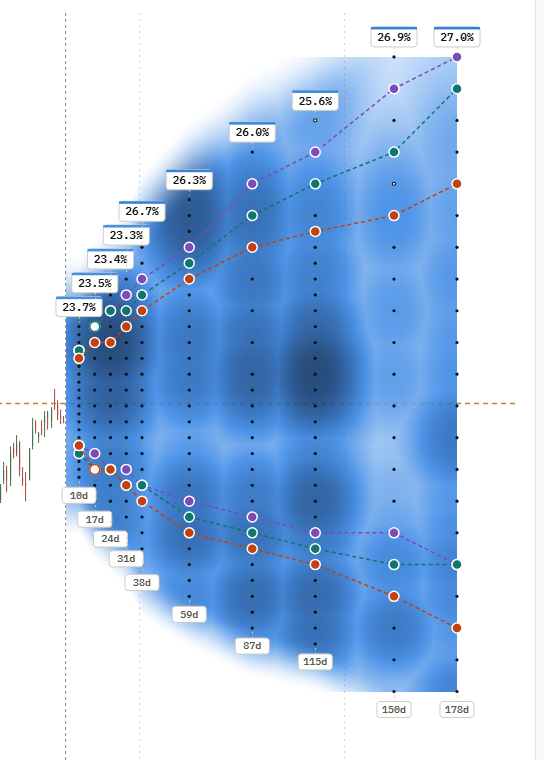
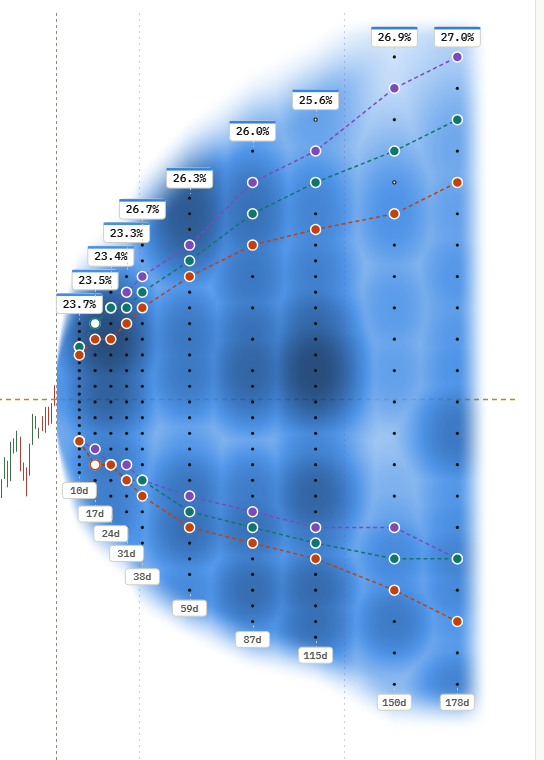
Update the website, manual, methods and design notes for the new color modes and contract selection

diff --git a/docs/methods.html b/docs/methods.html
@@ -12,7 +12,7 @@
 <meta property="og:title" content="How OptionsCone calculates touch and expiry probabilities">
 <meta property="og:description" content="American binomial IV, the first-passage formula, delta vs. N(d2) and a block bootstrap with intraday highs and lows.">
 <meta property="og:url" content="https://nikkn.github.io/OptionsCone/methods.html">
-<meta property="og:image" content="https://nikkn.github.io/OptionsCone/img/social.png?v=3">
+<meta property="og:image" content="https://nikkn.github.io/OptionsCone/img/social.png?v=4">
 <meta property="og:image:width" content="1200">
 <meta property="og:image:height" content="630">
 <meta property="og:image:alt" content="OptionsCone: a probability cone over the listed option strikes of a stock, with implied and historical contour lines.">
@@ -116,13 +116,18 @@
 
     <h2 id="cone">Drawing the cone</h2>
     <p>Probability coloring is interpolated between the listed strikes and expiries, in log price. Where an expiry does not list a strike, the probability is computed from the volatility of its nearest listed strike so the field stays continuous; no dot is drawn there. The color ramp is adjusted so that perceived lightness falls evenly with probability.</p>
-    <p>Implied volatility, open interest and spread are painted outward from each contract, each point taking the strongest nearby contract, and fade out beyond the outermost listed strikes. All four fields also fade out past the last expiry and beyond the outermost strike rows, so the cone ends softly; only transparency changes there, never the color. Probability uses a fixed 0 to 100% scale, implied volatility a linear scale over the values shown, and open interest, spread, time value per day and premium per unit risk a logarithmic scale, with spread inverted so that darker means tighter. Time value per day is the mid divided by the days to expiry, an average over the remaining life since decay speeds up towards expiry (every contract shown is out of the money, so its whole price is time value). The vs history map is the implied touch probability minus the 10-year bootstrap: blue where the market prices more risk than history (a rich premium for a seller), red where it prices less. Touch rather than expire, because it rests on volatility more than on the trend the history happened to have. Premium per unit risk is the mid divided by the average intrinsic value at the worst point of each 10-year path before expiry, all paths counted; it is left out where fewer than 50 of the 10,000 paths reach the strike.</p>
+    <p>Implied volatility, open interest, spread and time value per day are painted outward from each contract: each point takes the strongest contract within reach, so a large position stays visible as a block instead of being averaged away. The two seller maps, vs history and premium per unit risk, are differences and ratios and are blended instead: each point is the average of the contracts around it, weighted by inverse distance, so every contract shows its own value at its own position and a high value does not spill onto its neighbors.</p>
+    <p>All maps fade out beyond the outermost listed strikes, past the last expiry, and where they run into the top or bottom of the chart, so the cone ends softly; only transparency changes there, never the color. The strike range follows the expiry that reaches furthest on each side. Probability uses a fixed 0 to 100% scale, implied volatility a linear scale over the values shown, and open interest, spread, time value per day and premium per unit risk a logarithmic scale, with spread inverted so that darker means tighter. vs history is centered on zero.</p>
+    <p>Time value per day is the mid divided by the days to expiry. Every contract shown is out of the money, so its whole price is time value; per day it is an average over the remaining life, since decay speeds up towards expiry.</p>
+    <p>vs history is the implied touch probability minus the 10-year bootstrap: blue where the market prices more risk than history (a rich premium for a seller), red where it prices less. Touch rather than expire, because it rests on volatility more than on the trend the history happened to have. The bootstrap does not know the earnings calendar: about one in three of its 20-day blocks contains a past earnings reaction, whatever the dates. For an expiry that ends before the next report, history therefore overstates the risk and the map leans red; for one that spans the report, the market prices the event and the map leans blue.</p>
+    <p>Premium per unit risk is the mid divided by the average intrinsic value at the worst point of each 10-year path before expiry: for a short put the lowest low, for a short call the highest high, with paths that never reach the strike counted as zero. It is left out where fewer than 50 of the 10,000 paths reach the strike. It uses the mid; a seller receives the bid, which on far out-of-the-money contracts is noticeably lower.</p>
     <p>For each expiry and model, the contour marks the listed strike whose probability is closest to the target, separately above and below spot. A filled marker is within 5 percentage points of the target.</p>
 
     <h2 id="limits">Limits</h2>
     <ul>
       <li>The implied model assumes a lognormal price with constant volatility per contract. Real prices jump, especially around earnings.</li>
       <li>Implied probabilities are risk-neutral. They include the market's price for risk and are not real-world odds.</li>
+      <li>The bootstrap ignores the earnings calendar, so comparisons for expiries just before a report lean towards history overstating the risk.</li>
       <li>The bootstrap only knows the chosen years. A stock that changed its business, or a period without a crash, gives a narrow picture.</li>
       <li>Free data can be delayed, incomplete or wrong. The checks catch much of that, not all of it.</li>
     </ul>

diff --git a/docs/manual.html b/docs/manual.html
@@ -12,7 +12,7 @@
 <meta property="og:title" content="OptionsCone manual">
 <meta property="og:description" content="Installing OptionsCone, reading the probability cone and using every control.">
 <meta property="og:url" content="https://nikkn.github.io/OptionsCone/manual.html">
-<meta property="og:image" content="https://nikkn.github.io/OptionsCone/img/social.png?v=3">
+<meta property="og:image" content="https://nikkn.github.io/OptionsCone/img/social.png?v=4">
 <meta property="og:image:width" content="1200">
 <meta property="og:image:height" content="630">
 <meta property="og:image:alt" content="OptionsCone: a probability cone over the listed option strikes of a stock, with implied and historical contour lines.">
@@ -126,12 +126,14 @@
     <h2 id="mouse">Mouse and keyboard</h2>
     <div class="table-scroll"><table>
       <tr><th>Input</th><th>Action</th></tr>
+      <tr><td>Click a dot</td><td>Select that contract: it is marked and its tooltip stays open while you switch color modes</td></tr>
+      <tr><td>Click it again, click empty space, or <kbd>Esc</kbd></td><td>Clear the selection</td></tr>
       <tr><td>Drag left or right</td><td>Scroll through time</td></tr>
       <tr><td>Drag up or down</td><td>Slide the price range, to bring a part of the cone into view</td></tr>
       <tr><td><kbd>Ctrl</kbd> or <kbd>Shift</kbd> + wheel</td><td>Zoom in and out around the pointer</td></tr>
       <tr><td>Wheel over a probability box</td><td>Change that target probability</td></tr>
       <tr><td><kbd>&uarr;</kbd> <kbd>&darr;</kbd></td><td>Change the downside target (and the upside too while linked)</td></tr>
-      <tr><td><kbd>F</kbd></td><td>Enter or leave fullscreen (<kbd>Esc</kbd> also leaves)</td></tr>
+      <tr><td><kbd>F</kbd></td><td>Enter or leave fullscreen (<kbd>Esc</kbd> also leaves, after clearing a selection)</td></tr>
       <tr><td><kbd>T</kbd> <kbd>H</kbd> <kbd>V</kbd></td><td>Trend line, horizontal line, drawing off</td></tr>
       <tr><td><kbd>Ctrl</kbd>+<kbd>Z</kbd> or <kbd>Backspace</kbd></td><td>Remove the last drawing</td></tr>
     </table></div>
@@ -148,6 +150,8 @@
       <li><strong>premium/risk:</strong> the mid, the average worst intrinsic value on the 10-year paths, the share of paths that reach the strike, and the ratio</li>
     </ul>
     <p>A warning line appears if the quote was flagged by the checks.</p>
+    <h3 id="select">Comparing one contract across maps</h3>
+    <p>Click a dot to select the contract. It gets a ring with four ticks that stays visible on every color mode, and its tooltip stays open. Switch through the color modes and the tooltip changes with them, so you can read one contract's probability, volatility, open interest, spread, time value and seller figures in a few clicks. Hovering another dot shows that one for a moment; the selected tooltip comes back when you move away. The selection follows the contract through zooming and scrolling and is kept per ticker.</p>
     <p>Delta and gamma are computed on the same American binomial tree as the implied volatility, so they can be compared with your broker's. Small differences come from the broker's own dividend and rate assumptions.</p>
 
     <h2 id="table">Data table</h2>

diff --git a/docs/index.html b/docs/index.html
@@ -13,7 +13,7 @@
 <meta property="og:title" content="OptionsCone: what the option market expects from your stock">
 <meta property="og:description" content="The full option chain on the price chart: probabilities, IV, open interest and spreads. Free and open source.">
 <meta property="og:url" content="https://nikkn.github.io/OptionsCone/">
-<meta property="og:image" content="https://nikkn.github.io/OptionsCone/img/social.png?v=3">
+<meta property="og:image" content="https://nikkn.github.io/OptionsCone/img/social.png?v=4">
 <meta property="og:image:width" content="1200">
 <meta property="og:image:height" content="630">
 <meta property="og:image:alt" content="OptionsCone: a probability cone over the listed option strikes of a stock, with implied and historical contour lines.">
@@ -172,6 +172,22 @@
       <figure>
         <a href="img/chart-spr.png"><img class="shot" src="img/cone-spr.png" width="544" height="760" loading="lazy" alt="Cone colored by bid-ask spread, darker where quotes are tighter."></a>
         <figcaption><strong>Spread.</strong> Darker means tighter quotes, so the contracts you can actually trade stand out.</figcaption>
+      </figure>
+    </div>
+    <h3 style="margin-top:36px">For option sellers</h3>
+    <p class="prose">Three maps answer the seller&#39;s question: which strikes pay the most for the risk taken. Click a contract to select it, then switch maps and its numbers follow.</p>
+    <div class="grid3">
+      <figure>
+        <a href="img/chart-tv.png"><img class="shot" src="img/cone-tv.png" width="544" height="760" loading="lazy" alt="Cone colored by time value per remaining day, darkest near the money for short expiries."></a>
+        <figcaption><strong>Time value per day.</strong> The option price divided by the days left, an average over the remaining life. Every contract shown is out of the money, so its whole price is time value.</figcaption>
+      </figure>
+      <figure>
+        <a href="img/chart-gap.png"><img class="shot" src="img/cone-gap.png" width="544" height="760" loading="lazy" alt="Cone colored blue below spot and red above, comparing implied with historical touch probability."></a>
+        <figcaption><strong>vs history.</strong> The market&#39;s touch probability minus the stock&#39;s own last ten years. Blue where the market prices more risk than history produced, red where less.</figcaption>
+      </figure>
+      <figure>
+        <a href="img/chart-vpr.png"><img class="shot" src="img/cone-vpr.png" width="544" height="760" loading="lazy" alt="Cone colored by premium per unit of historical risk."></a>
+        <figcaption><strong>Premium per unit risk.</strong> The option price divided by the average intrinsic value at the worst point of each historical path. Higher means more premium for the risk history shows.</figcaption>
       </figure>
     </div>
   </section>

diff --git a/docs/use-cases.html b/docs/use-cases.html
@@ -12,7 +12,7 @@
 <meta property="og:title" content="What OptionsCone can tell you before and during a trade">
 <meta property="og:description" content="Stop loss odds, break-even, price targets and market vs. history, with real numbers.">
 <meta property="og:url" content="https://nikkn.github.io/OptionsCone/use-cases.html">
-<meta property="og:image" content="https://nikkn.github.io/OptionsCone/img/social.png?v=3">
+<meta property="og:image" content="https://nikkn.github.io/OptionsCone/img/social.png?v=4">
 <meta property="og:image:width" content="1200">
 <meta property="og:image:height" content="630">
 <meta property="og:image:alt" content="OptionsCone: a probability cone over the listed option strikes of a stock, with implied and historical contour lines.">

diff --git a/charts/build_chart.py b/charts/build_chart.py
@@ -350,7 +350,12 @@ BODY = """<div class="wrap">
   <p>Close-to-close volatility over the last year, exponentially weighted with a 6-week half-life and annualized with 252 trading days.</p>
 
   <h3>The cone</h3>
-  <p>Probability coloring is interpolated between the listed strikes and expiries, in log price. Where an expiry does not list a strike, the probability is computed from the volatility of its nearest listed strike, so the field stays continuous; no dot is drawn there. IV, open interest and spread are painted outward from each contract, each point taking the strongest nearby contract, and fade out beyond the outermost listed strikes. All four fields also fade out past the last expiry and beyond the outermost strike rows, so the cone ends softly; only transparency changes there, never the color. Probability uses a fixed 0 to 100% scale; IV a linear scale over the values shown; open interest, spread, time value per day and premium per unit risk a logarithmic scale, with spread inverted so that darker means tighter. Time value per day is the mid divided by the days to expiry, an average over the remaining life since decay speeds up towards expiry (every contract shown is out of the money, so its whole price is time value). The vs history map is the implied touch probability minus the 10-year bootstrap: blue where the market prices more risk than history (a rich premium for a seller), red where it prices less. Touch rather than expire, because it rests on volatility more than on the trend the history happened to have. Premium per unit risk is the mid divided by the average intrinsic value at the worst point of each 10-year path before expiry, all paths counted; it is left out where fewer than 50 of the 10,000 paths reach the strike.</p>
+  <p>Probability coloring is interpolated between the listed strikes and expiries, in log price. Where an expiry does not list a strike, the probability is computed from the volatility of its nearest listed strike, so the field stays continuous; no dot is drawn there.</p>
+  <p>Implied volatility, open interest, spread and time value per day are painted outward from each contract: each point takes the strongest contract within reach, so a large position stays visible as a block instead of being averaged away. The two seller maps, vs history and premium per unit risk, are differences and ratios and are blended instead: each point is the average of the contracts around it, weighted by inverse distance, so every contract shows its own value at its own position and a high value does not spill onto its neighbors.</p>
+  <p>All maps fade out beyond the outermost listed strikes, past the last expiry, and where they run into the top or bottom of the chart, so the cone ends softly; only transparency changes there, never the color. The strike range follows the expiry that reaches furthest on each side. Probability uses a fixed 0 to 100% scale, implied volatility a linear scale over the values shown, and open interest, spread, time value per day and premium per unit risk a logarithmic scale, with spread inverted so that darker means tighter. vs history is centered on zero.</p>
+  <p>Time value per day is the mid divided by the days to expiry. Every contract shown is out of the money, so its whole price is time value; per day it is an average over the remaining life, since decay speeds up towards expiry.</p>
+  <p>vs history is the implied touch probability minus the 10-year bootstrap: blue where the market prices more risk than history (a rich premium for a seller), red where it prices less. Touch rather than expire, because it rests on volatility more than on the trend the history happened to have. The bootstrap does not know the earnings calendar: about one in three of its 20-day blocks contains a past earnings reaction, whatever the dates. For an expiry that ends before the next report, history therefore overstates the risk and the map leans red; for one that spans the report, the market prices the event and the map leans blue.</p>
+  <p>Premium per unit risk is the mid divided by the average intrinsic value at the worst point of each 10-year path before expiry: for a short put the lowest low, for a short call the highest high, with paths that never reach the strike counted as zero. It is left out where fewer than 50 of the 10,000 paths reach the strike. It uses the mid; a seller receives the bid, which on far out-of-the-money contracts is noticeably lower.</p>
 
   <h3>Contours</h3>
   <p>For each expiry and model, the contour marks the listed strike whose probability is closest to the target, separately above and below spot. A filled marker is within 5 percentage points of the target, a hollow one is the nearest available but further off.</p>

diff --git a/DESIGN.md b/DESIGN.md
@@ -102,6 +102,38 @@ download rewrites only that ticker's file, and the page itself never needs
 rebuilding. Each file carries a format version; files written by an older
 version are re-exported from the archive at start-up, without a new download.
 
+## Maps for sellers
+
+Most retail charting answers "where might the price go". A seller of options
+asks something narrower: which strikes pay the most for the risk taken. Three
+color modes serve that question, all built from data the app already has.
+
+- **Time value per day.** Every contract shown is out of the money, so its
+  whole price is time value, and the mid divided by the days left needs no
+  model at all. It is an average over the remaining life; decay speeds up
+  towards expiry. In-the-money contracts are left out on purpose: their time
+  value is not the same as the out-of-the-money contract at the same strike
+  (interest on the strike and dividends come on top), and their quotes are
+  wider.
+- **vs history.** The implied touch probability minus the 10-year bootstrap.
+  Touch rather than expire, because the probability of finishing beyond a
+  strike is dominated by drift, and the trend a stock happened to have over
+  ten years is the least reliable thing history offers. The probability of
+  reaching a level rests mainly on volatility, which persists. The bootstrap
+  ignores the earnings calendar, so expiries just before a report compare
+  against a history that contains earnings moves the market is not pricing.
+- **Premium per unit risk.** The mid divided by the average intrinsic value at
+  the worst point of each historical path before expiry. Path extremes depend
+  on volatility far more than on trend, like the touch probability. The
+  extremes are already sorted for the touch counts, so a running sum gives
+  every strike in one binary search.
+
+Open interest is colored by letting the strongest nearby contract win, so a
+large position stays a wall instead of being averaged away. The two seller
+maps are ratios and differences, where that rule would let a high value spill
+over its neighbors; they are blended by inverse distance instead, so each
+contract shows its own value at its own position.
+
 ## Rendering
 
 Ten years of daily candles at a close zoom are over a hundred thousand pixels
@@ -118,3 +150,10 @@ arrive.
 The color ramp is re-parameterized so that perceived lightness falls linearly
 with probability. Open interest and spread span orders of magnitude and use a
 logarithmic scale; implied volatility stays linear.
+
+The strike range is the same for every expiry so rows line up, and each side
+reaches as far as the widest expiry on that side. A sparse expiry, typically a
+quarterly with few strikes, would otherwise cut the whole chart short. Where
+the data ends, the maps keep their edge values and fade to transparent, past
+the last expiry and at the top and bottom of the range, so the cone never
+stops on a line. Only transparency changes in those margins.

diff --git a/README.md b/README.md
@@ -22,7 +22,8 @@ Where the market and the stock's history disagree, the lines separate.
 
 The cone can also be colored by implied volatility, open interest, bid-ask
 spread, time value per day, the gap between the implied and the historical
-probability, or the premium per unit of historical risk. Hovering a contract shows its probabilities, quote, delta and gamma. A
+probability, or the premium per unit of historical risk. Hovering a contract shows its probabilities, quote, delta and gamma;
+clicking it keeps its numbers on screen while you switch maps. A
 data table lists the values for the whole chain, and the Methods section in the
 app explains every number.
 
